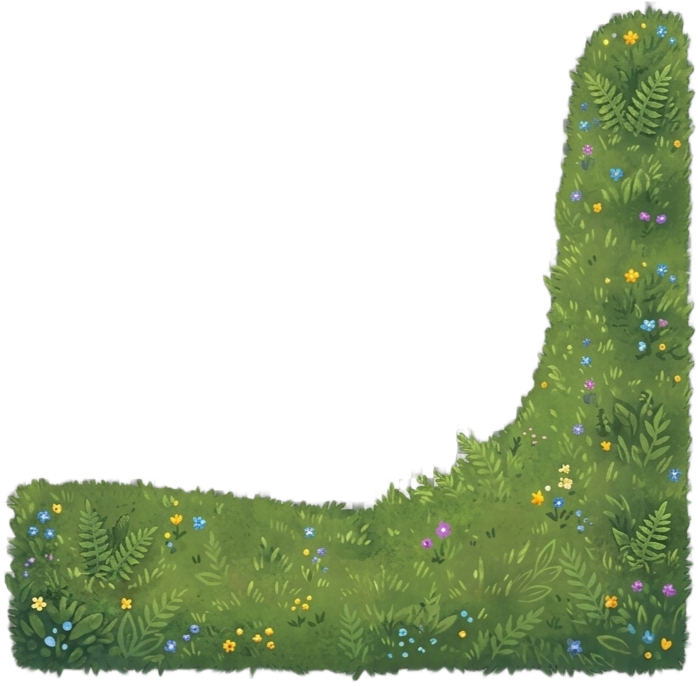
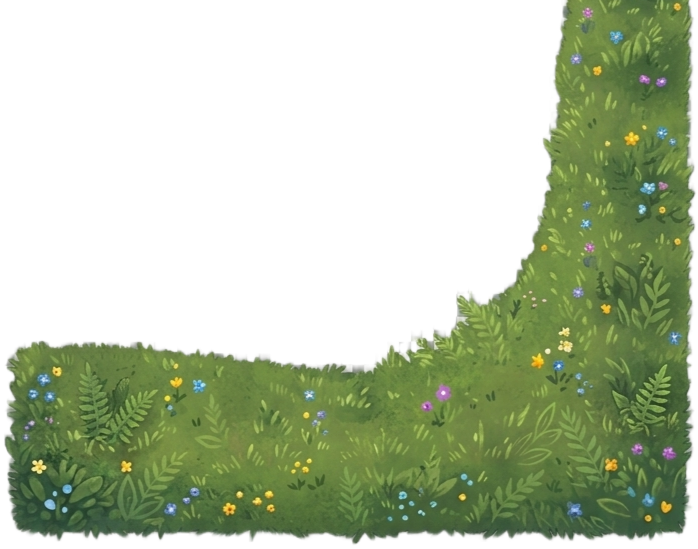
TableReservation: crop grass 20% from top

Changed region(s): [[0.0, 0.0, 1.0, 0.9909]]

diff --git a/TableReservation.php b/TableReservation.php
@@ -1111,7 +1111,7 @@ if (($_GET['ajax'] ?? '') === 'tg_state_get') {
       height: 900px;
       transform: scale(1.1);
       transform-origin: right bottom;
-      background: url("/links/grass_corner_1_7.png?v=20260407_1714") no-repeat right bottom / 850px auto;
+      background: url("/links/grass_corner_1_7.png?v=20260407_1720") no-repeat right bottom / 850px auto;
       pointer-events: none;
       z-index: 1;
       filter: drop-shadow(0 18px 22px rgba(0,0,0,0.22));
